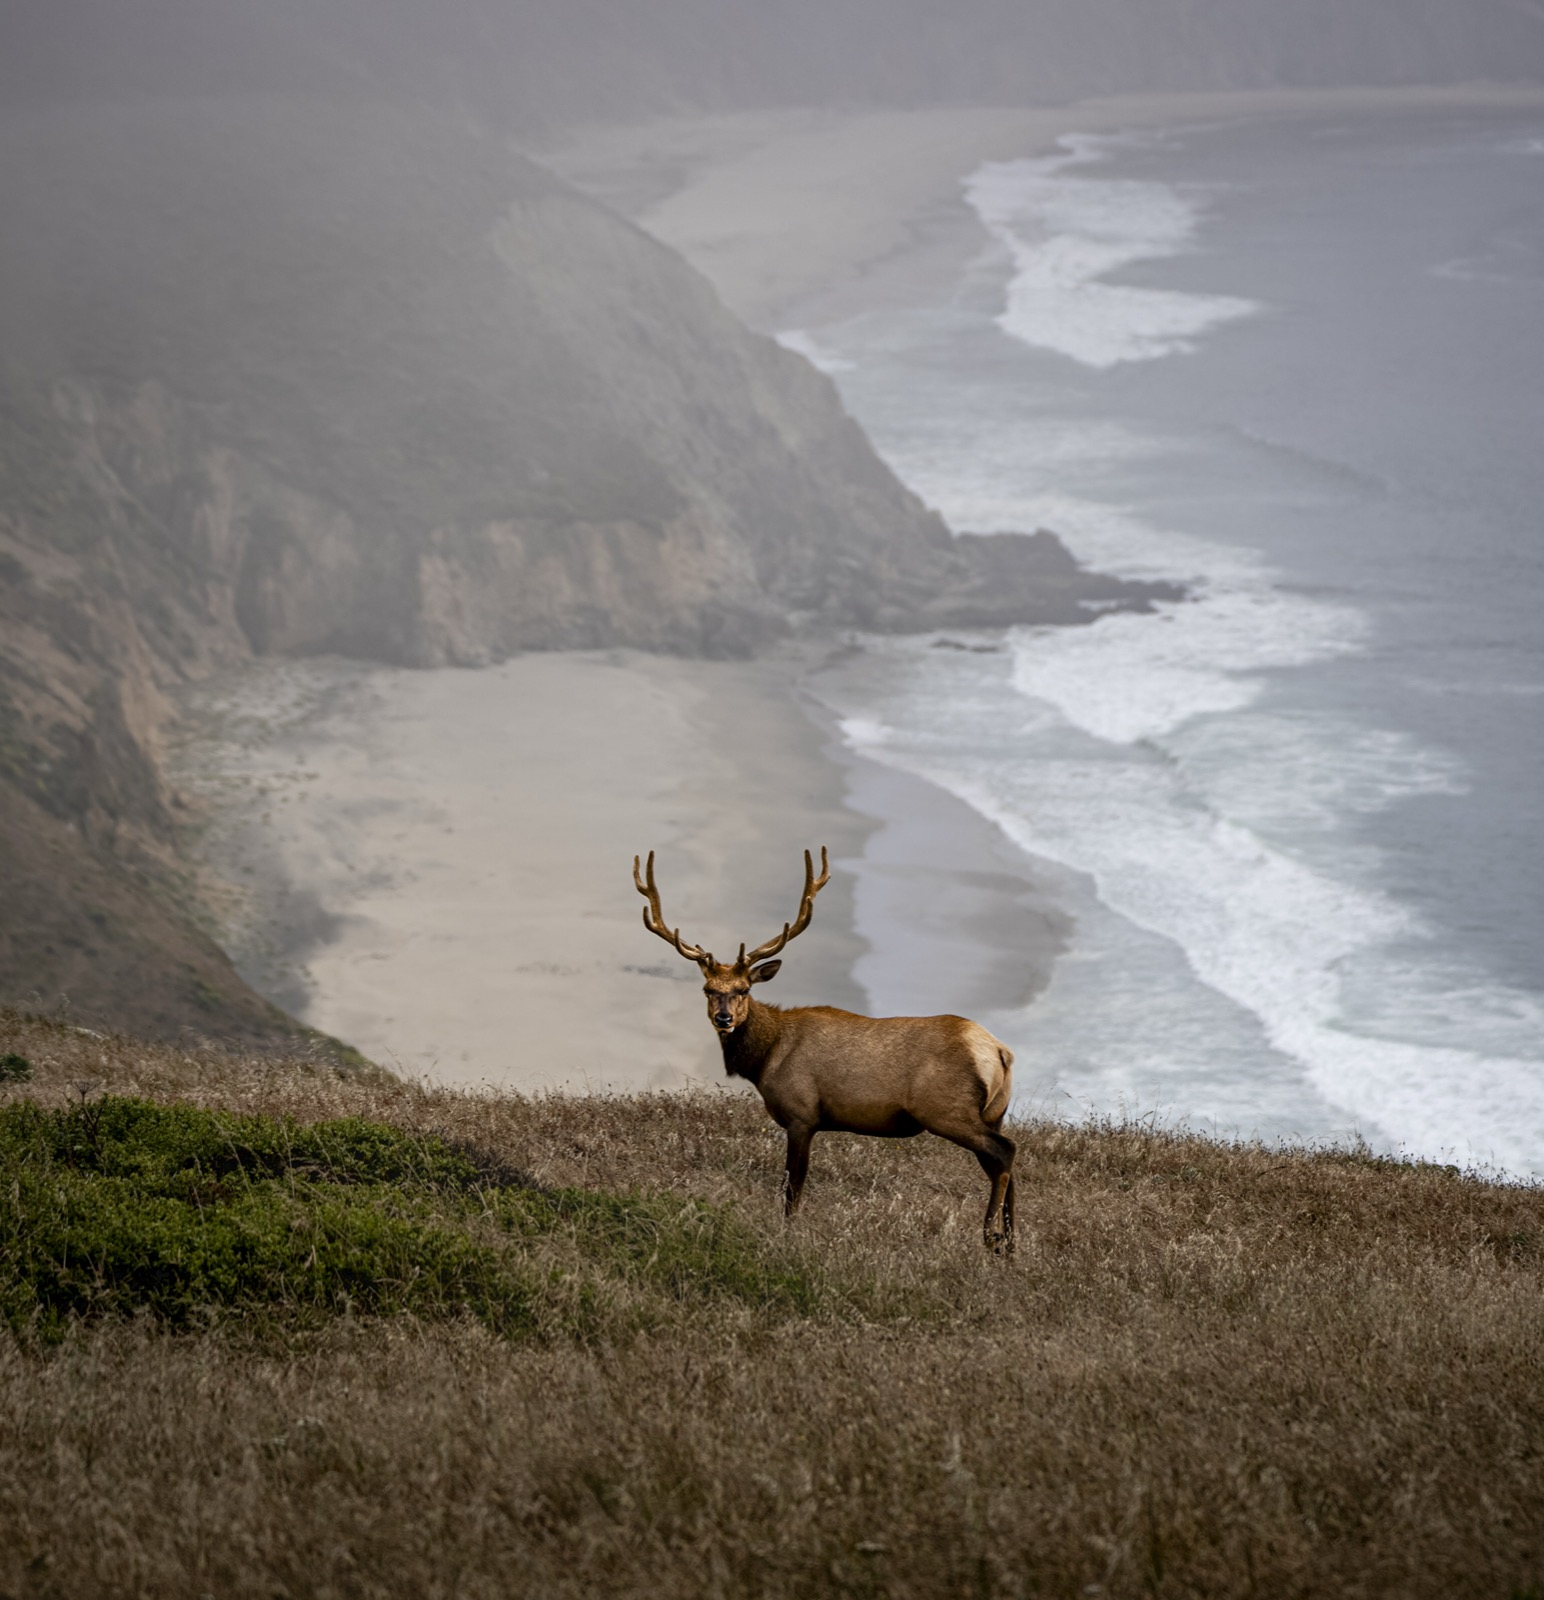
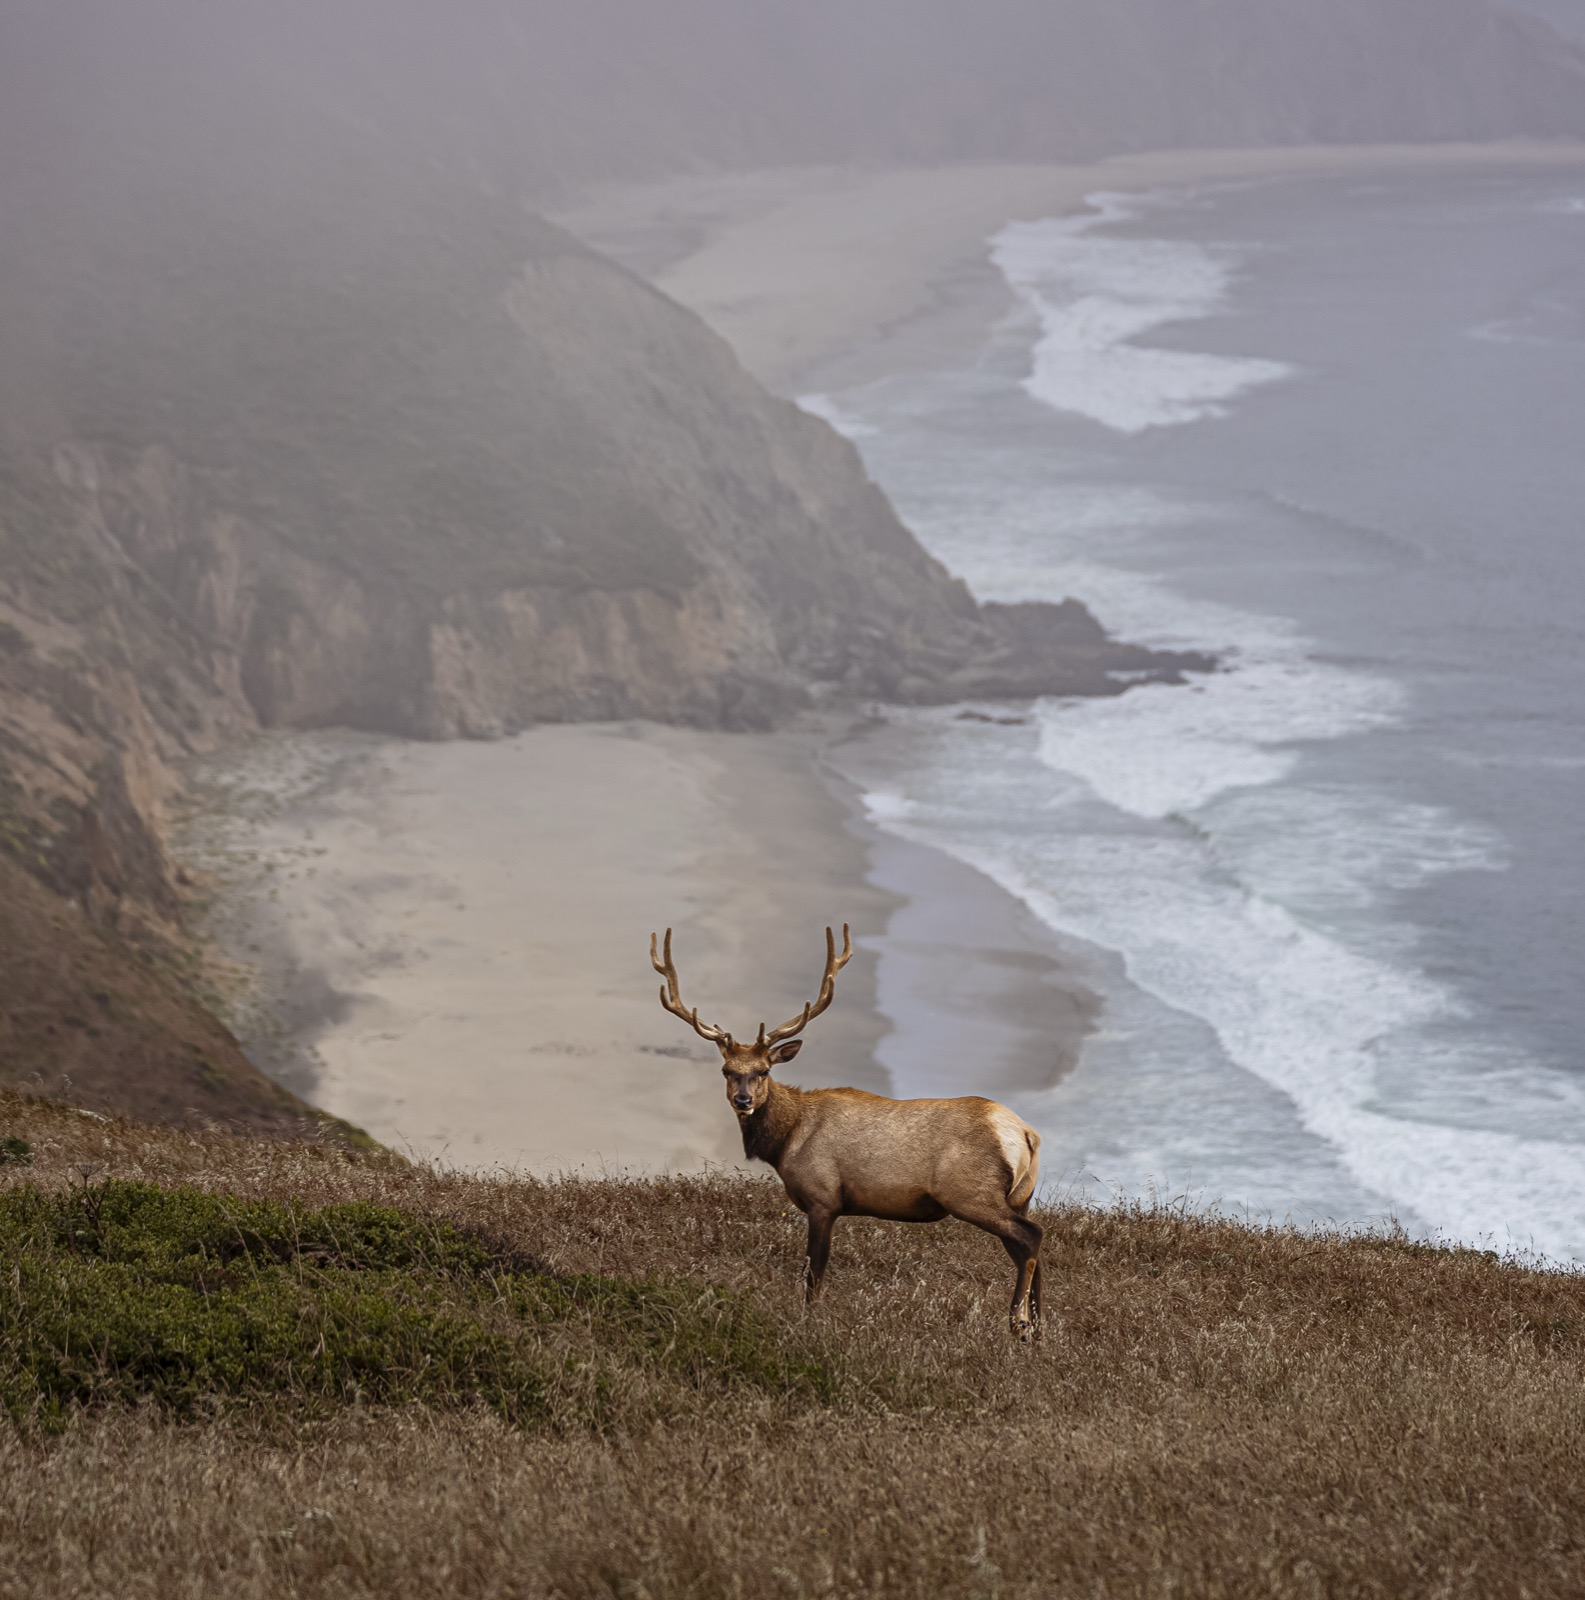
Update Tule Elk photo with new version
Regenerates 900px thumb and 1600px large; updates thumb dimensions in index.html (891x900).

diff --git a/index.html b/index.html
@@ -50,7 +50,7 @@
             <div class="gallery-grid">
                 <!-- COLOR PHOTOS -->
                 <div class="gallery-item portrait" data-type="color">
-                    <img src="images/thumbs/Tule-Elk.jpg" data-full="images/Tule-Elk.jpg" alt="Tule Elk" loading="lazy" srcset="images/thumbs/Tule-Elk.jpg 900w, images/large/Tule-Elk.jpg 1600w" sizes="(min-width: 768px) min(1000px, 100vw), 100vw" width="869" height="900">
+                    <img src="images/thumbs/Tule-Elk.jpg" data-full="images/Tule-Elk.jpg" alt="Tule Elk" loading="lazy" srcset="images/thumbs/Tule-Elk.jpg 900w, images/large/Tule-Elk.jpg 1600w" sizes="(min-width: 768px) min(1000px, 100vw), 100vw" width="891" height="900">
                     <div class="gallery-overlay">
                         <span class="photo-title">Tule Elk</span>
                         <span class="photo-location">Tomales Point, California</span>
